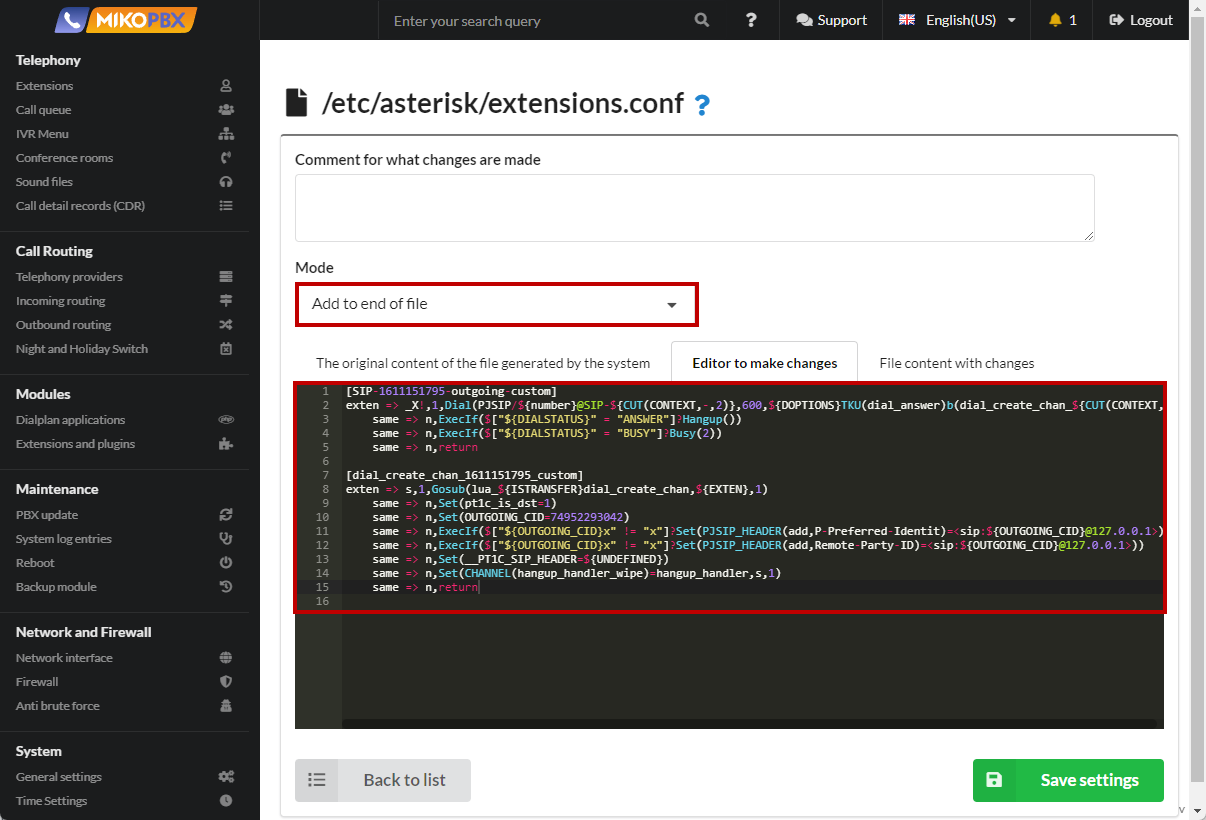
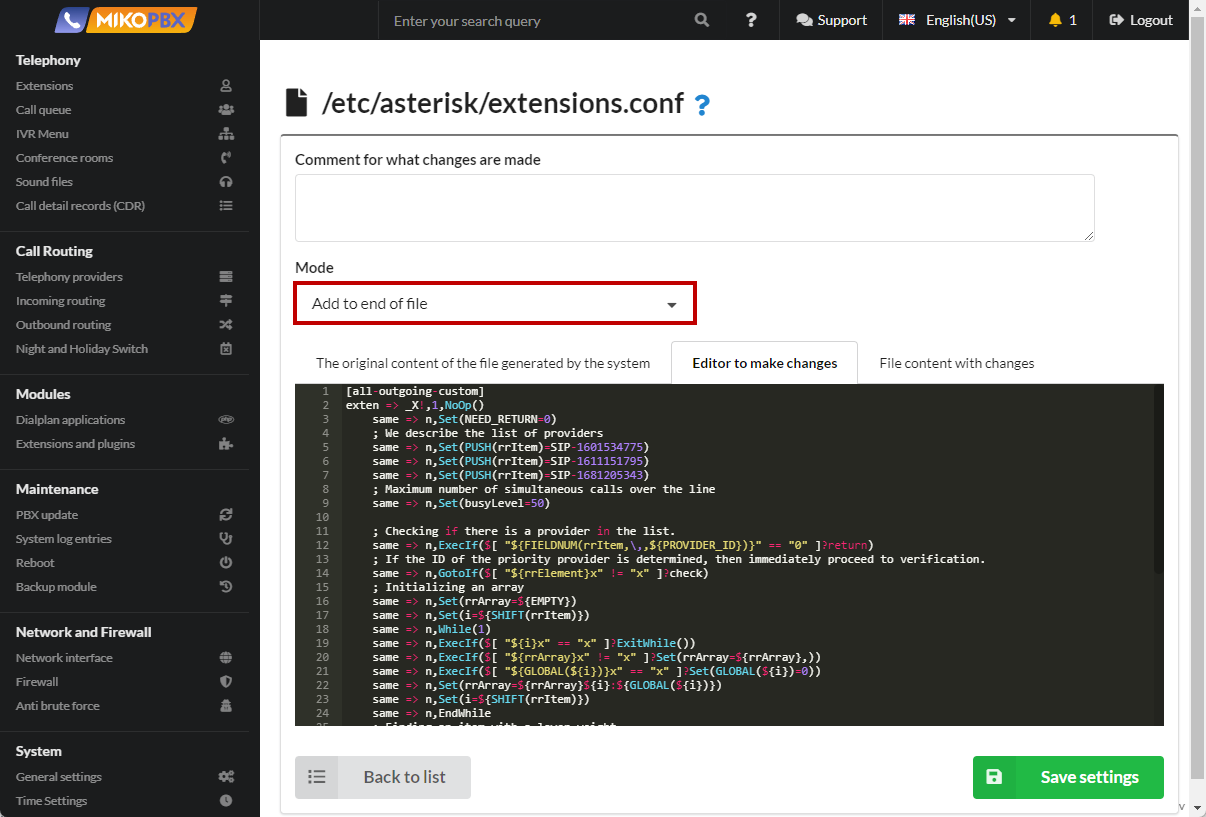
GITBOOK-138: change request with no subject merged in GitBook

diff --git a/faq/outbound-routing/number-template/uniform-distribution-of-outgoing.md b/faq/outbound-routing/number-template/uniform-distribution-of-outgoing.md
@@ -1,0 +1,79 @@
+# Uniform distribution of outgoing
+
+1. Go to the **System file customization** section
+
+<figure><img src="../../../.gitbook/assets/SystemFileCustomization.png" alt=""><figcaption><p>System file customization section</p></figcaption></figure>
+
+2. Open **modules.conf** for editing
+
+<figure><img src="../../../.gitbook/assets/modulesConf (1).png" alt=""><figcaption><p>Modules.conf file </p></figcaption></figure>
+
+3. Add the following code to the end of the file:
+
+```php
+load => func_global.so
+```
+
+<figure><img src="../../../.gitbook/assets/CodeForModulesConf.png" alt=""><figcaption><p>Code for Modules.conf</p></figcaption></figure>
+
+4. Open the **extensions.conf** file for editing
+
+<figure><img src="../../../.gitbook/assets/EditExtensions.conf.png" alt=""><figcaption><p>Extensions.conf file</p></figcaption></figure>
+
+5. Add the following code to the end of the file:
+
+```php
+[all-outgoing-custom]
+exten => _X!,1,NoOp()
+    same => n,Set(NEED_RETURN=0)
+    ; We describe the list of providers
+    same => n,Set(PUSH(rrItem)=SIP-1601534775)
+    same => n,Set(PUSH(rrItem)=SIP-1611151795)    
+    same => n,Set(PUSH(rrItem)=SIP-1681205343)
+    ; Maximum number of simultaneous calls over the line
+    same => n,Set(busyLevel=50)
+    
+    ; Checking if there is a provider in the list.
+    same => n,ExecIf($[ "${FIELDNUM(rrItem,\,,${PROVIDER_ID})}" == "0" ]?return)
+    ; If the ID of the priority provider is determined, then immediately proceed to verification.
+    same => n,GotoIf($[ "${rrElement}x" != "x" ]?check)
+    ; Initializing an array
+    same => n,Set(rrArray=${EMPTY})
+    same => n,Set(i=${SHIFT(rrItem)})
+    same => n,While(1)
+    same => n,ExecIf($[ "${i}x" == "x" ]?ExitWhile())
+    same => n,ExecIf($[ "${rrArray}x" != "x" ]?Set(rrArray=${rrArray},))
+    same => n,ExecIf($[ "${GLOBAL(${i})}x" == "x" ]?Set(GLOBAL(${i})=0))
+    same => n,Set(rrArray=${rrArray}${i}:${GLOBAL(${i})})
+    same => n,Set(i=${SHIFT(rrItem)})
+    same => n,EndWhile
+    ; Finding an item with a lower weight
+    same => n,Set(rrArray=${SORT(${rrArray})})
+    same => n,Set(rrElement=${SHIFT(rrArray)})
+    same => n,While(1)
+    same => n,ExecIf($[ $[${GROUP_COUNT(${rrElement})} < ${busyLevel}] ]?ExitWhile())
+    same => n,ExecIf($[ "${rrElement}x" == "x" ]?ExitWhile())
+    same => n,NoOp( ${rrElement} - is busy)
+    same => n,Set(rrElement=${SHIFT(rrArray)})
+    same => n,EndWhile
+    same => n,NoOp(--- ${rrElement} ---)
+    
+    ; Checking whether the provider matches
+    same => n(check),ExecIf($[ "${PROVIDER_ID}x" != "${rrElement}x" ]?Set(NEED_RETURN=1))
+    same => n,ExecIf($[ "${PROVIDER_ID}x" != "${rrElement}x" ]?return)
+    ; Increasing the counter
+    same => n,Set(GLOBAL(${rrElement})=$[${GLOBAL(${rrElement})} + 1])
+    ; The counter of active calls through the provider
+    same => n,Set(GROUP()=${rrElement})
+    same => n,return
+```
+
+<figure><img src="../../../.gitbook/assets/CodeForExtensionsConf.png" alt=""><figcaption><p>Code for extensions.conf</p></figcaption></figure>
+
+{% hint style="info" %}
+In the lines of the form "**Set(PUSH(rrItem)=SIP-1601534775)**", the ids of providers are listed, among which outgoing ones should be evenly distributed. The ID can be copied in the browser's address bar when editing the provider. The "**busyLevel**" variable defines the maximum allowed number of simultaneous calls through the provider.
+{% endhint %}
+
+{% hint style="warning" %}
+For each provider, you will need to describe the outgoing route. The template in the routes must be the same.
+{% endhint %}

diff --git a/faq/outbound-routing/calls-to-emergency-numbers.md b/faq/outbound-routing/calls-to-emergency-numbers.md
@@ -35,7 +35,7 @@ It is necessary to be able to call emergency numbers 112, 1xx
 exten => _1XX,1,Goto(outgoing,${EXTEN},1)	
 ```
 
-<figure><img src="../../.gitbook/assets/CodeForExtensionsConf (1).png" alt=""><figcaption><p>Code for extensions.conf</p></figcaption></figure>
+<figure><img src="../../.gitbook/assets/CodeForExtensionsConf (1) (1).png" alt=""><figcaption><p>Code for extensions.conf</p></figcaption></figure>
 
 In the above code snippet, we described the rules for all three-digit numbers starting with 1. If you need to specify specific emergency numbers, then instead of the above code, you need to insert the following lines:
 

diff --git a/SUMMARY.md b/SUMMARY.md
@@ -95,6 +95,8 @@
   * [Remove all special characters from the dialed number](faq/outbound-routing/remove-all-special-characters-from-the-dialed-number.md)
   * [Prohibiting calls via a backup route](faq/outbound-routing/prohibiting-calls-via-a-backup-route.md)
   * [Calls to emergency numbers](faq/outbound-routing/calls-to-emergency-numbers.md)
+  * [Number Template](faq/outbound-routing/number-template/README.md)
+    * [Uniform distribution of outgoing](faq/outbound-routing/number-template/uniform-distribution-of-outgoing.md)
 
 ## Modules
 

diff --git a/faq/outbound-routing/add-p-preferred-identity-and-remote-party-id-header.md b/faq/outbound-routing/add-p-preferred-identity-and-remote-party-id-header.md
@@ -30,7 +30,7 @@ exten => s,1,Gosub(lua_${ISTRANSFER}dial_create_chan,${EXTEN},1)
     same => n,return
 ```
 
-<figure><img src="../../.gitbook/assets/CodeForExtensionsConf.png" alt=""><figcaption><p>Code for extrensions.conf</p></figcaption></figure>
+<figure><img src="../../.gitbook/assets/CodeForExtensionsConf (2).png" alt=""><figcaption><p>Code for extrensions.conf</p></figcaption></figure>
 
 {% hint style="danger" %}
 **Pay attention:**&#x20;

diff --git a/faq/outbound-routing/number-template/README.md b/faq/outbound-routing/number-template/README.md
@@ -1,0 +1,2 @@
+# Number Template
+
